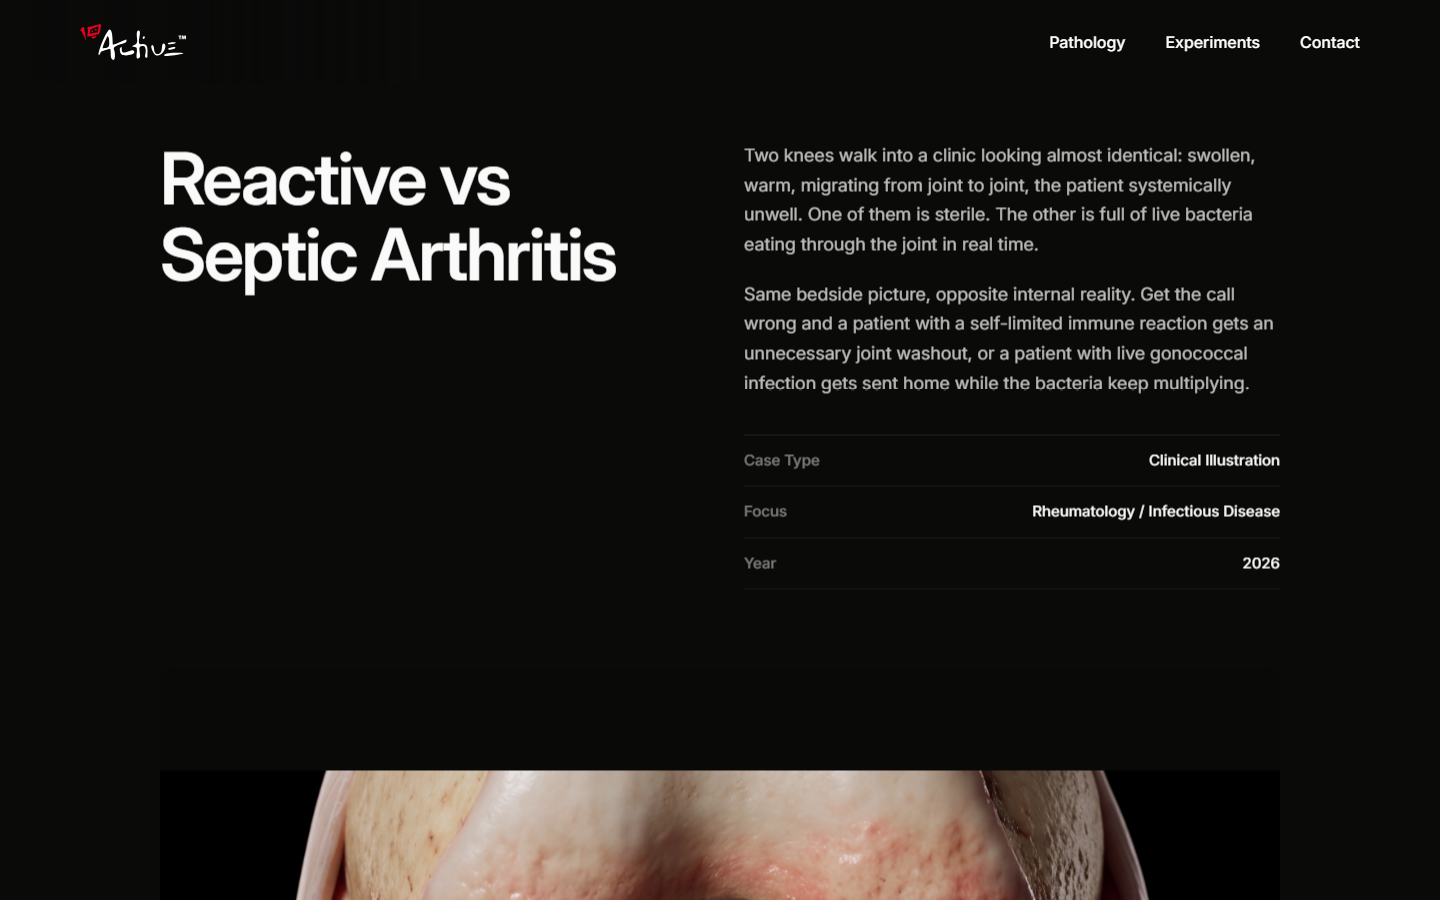
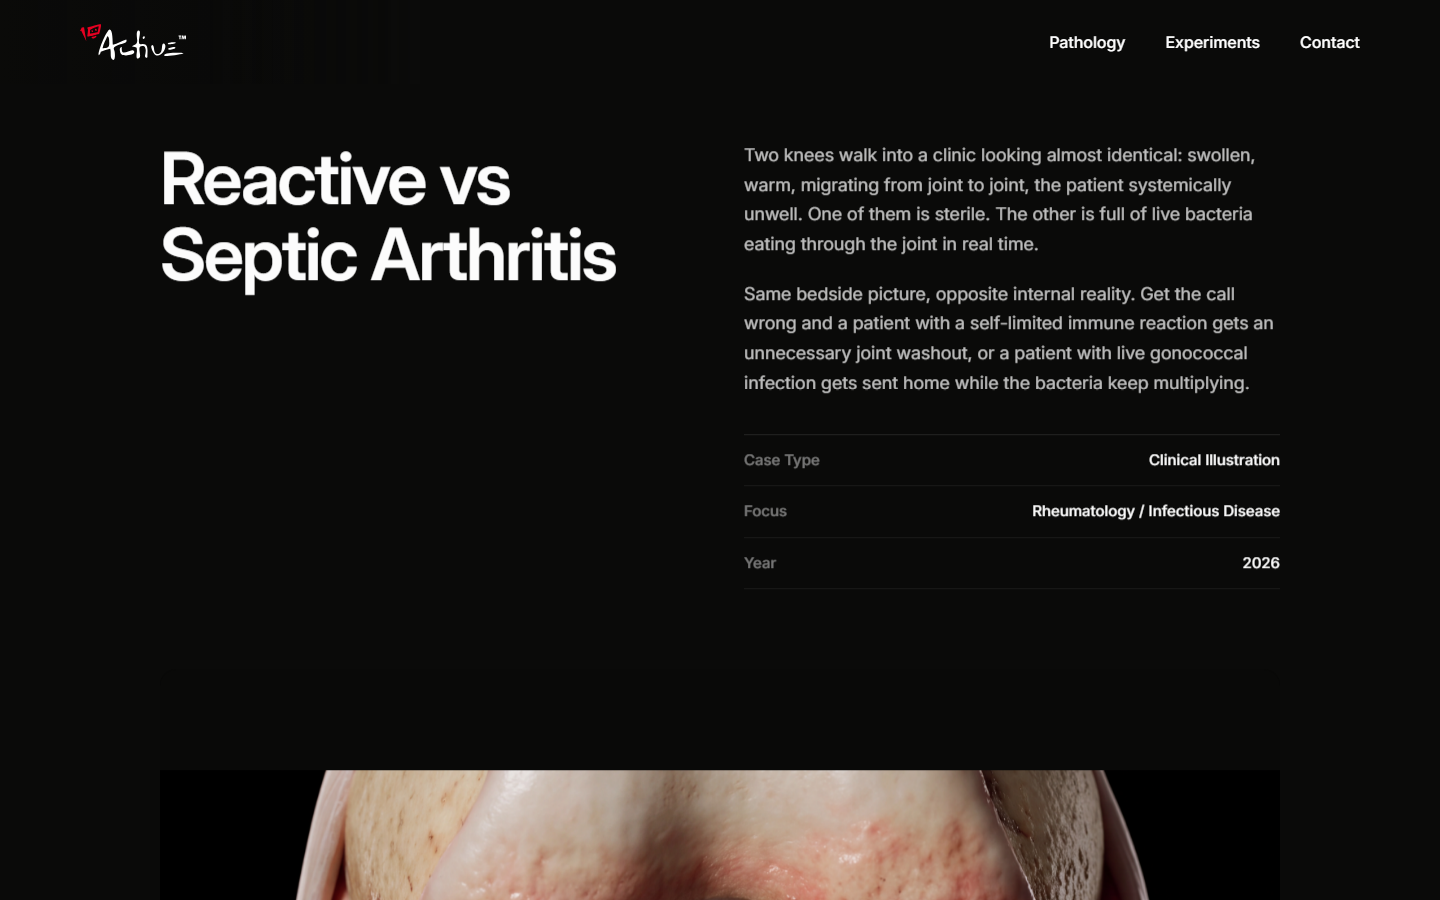
Add telemedicine partner CTA row (test on this article only)
Three CTAs in the closing Contact section: existing email contact,
"Speak to a physician now" (primary, accent-colored), and "Learn more"
about the telemedicine partnership. Both partner links are placeholders
(href="#") since the real URL and confirmed partner name aren't
finalized yet. Page-level CSS only, not promoted to global.css, since
this is a one-article test per Steve before deciding whether to roll it
out site-wide.

diff --git a/case-study-reactive-vs-septic-arthritis.html b/case-study-reactive-vs-septic-arthritis.html
@@ -79,6 +79,15 @@ section.full-image .step-figure img { height: 92vh; width: 100%; object-fit: con
 @media (max-width: 1199px) { .case-header, .process, .outcome, .other-work, .full-image { padding-left: 64px; padding-right: 64px; } }
 @media (max-width: 809px) { .case-header { grid-template-columns: 1fr; gap: 40px; } .ctl-rail { min-height: 56px; } .process { grid-template-columns: 1fr; gap: 32px; padding: 80px 32px; } .process-outline { position: static; } .outcome { grid-template-columns: 1fr; gap: 24px; padding: 80px 32px 0; } .other-work { padding: 80px 32px; } .other-work-grid { grid-template-columns: 1fr; gap: 24px; } .image-row { grid-template-columns: 1fr; } }
 @media (max-width: 374px) { .case-header, .process, .outcome, .other-work { padding-left: 20px; padding-right: 20px; } }
+
+/* Physician-partner CTA row (test on this article only, per Steve — not yet a global widget) */
+.contact-cta-row { display: flex; flex-wrap: wrap; justify-content: center; gap: 16px; margin-top: 40px; }
+.contact-cta-row .contact-icon { margin-top: 0; }
+.contact-icon.partner-cta { background: rgba(230,0,33,0.12); border: 1px solid rgba(230,0,33,0.4); }
+.contact-icon.partner-cta:hover { background: rgba(230,0,33,0.2); }
+.contact-icon.partner-cta.secondary { background: rgba(255,255,255,0.08); border: 1px solid rgba(255,255,255,0.15); }
+.contact-icon.partner-cta.secondary:hover { background: rgba(255,255,255,0.15); }
+.contact-partner-note { font-size: 13px; opacity: 0.4; margin-top: 20px; }
 </style>
 </head>
 <body>
@@ -317,7 +326,12 @@ section.full-image .step-figure img { height: 92vh; width: 100%; object-fit: con
 
 <section class="contact fade-in">
   <h2>Want to learn about the human body<br>from the inside?</h2>
-  <a href="mailto:steven.oppong@gmail.com" class="contact-icon" aria-label="Send email"><svg viewBox="0 0 24 24" fill="none" stroke="currentColor" stroke-width="2" stroke-linecap="round" stroke-linejoin="round"><rect x="2" y="4" width="20" height="16" rx="2"/><path d="m22 7-8.97 5.7a1.94 1.94 0 0 1-2.06 0L2 7"/></svg>steven.oppong@gmail.com</a>
+  <div class="contact-cta-row">
+    <a href="mailto:steven.oppong@gmail.com" class="contact-icon" aria-label="Send email"><svg viewBox="0 0 24 24" fill="none" stroke="currentColor" stroke-width="2" stroke-linecap="round" stroke-linejoin="round"><rect x="2" y="4" width="20" height="16" rx="2"/><path d="m22 7-8.97 5.7a1.94 1.94 0 0 1-2.06 0L2 7"/></svg>steven.oppong@gmail.com</a>
+    <a href="#" class="contact-icon partner-cta" aria-label="Speak to a physician now"><svg viewBox="0 0 24 24" fill="none" stroke="currentColor" stroke-width="2" stroke-linecap="round" stroke-linejoin="round"><path d="M22 16.92v3a2 2 0 0 1-2.18 2 19.79 19.79 0 0 1-8.63-3.07 19.5 19.5 0 0 1-6-6 19.79 19.79 0 0 1-3.07-8.67A2 2 0 0 1 4.11 2h3a2 2 0 0 1 2 1.72c.127.96.361 1.903.7 2.81a2 2 0 0 1-.45 2.11L8.09 9.91a16 16 0 0 0 6 6l1.27-1.27a2 2 0 0 1 2.11-.45c.907.339 1.85.573 2.81.7A2 2 0 0 1 22 16.92z"/></svg>Speak to a physician now</a>
+    <a href="#" class="contact-icon partner-cta secondary" aria-label="Learn more about our telemedicine partner"><svg viewBox="0 0 24 24" fill="none" stroke="currentColor" stroke-width="2" stroke-linecap="round" stroke-linejoin="round"><circle cx="12" cy="12" r="10"/><line x1="12" y1="16" x2="12" y2="12"/><line x1="12" y1="8" x2="12.01" y2="8"/></svg>Learn more</a>
+  </div>
+  <p class="contact-partner-note">Have something specific to this case? Get connected with a physician through our telemedicine partner.</p>
 </section>
 
 <footer>
